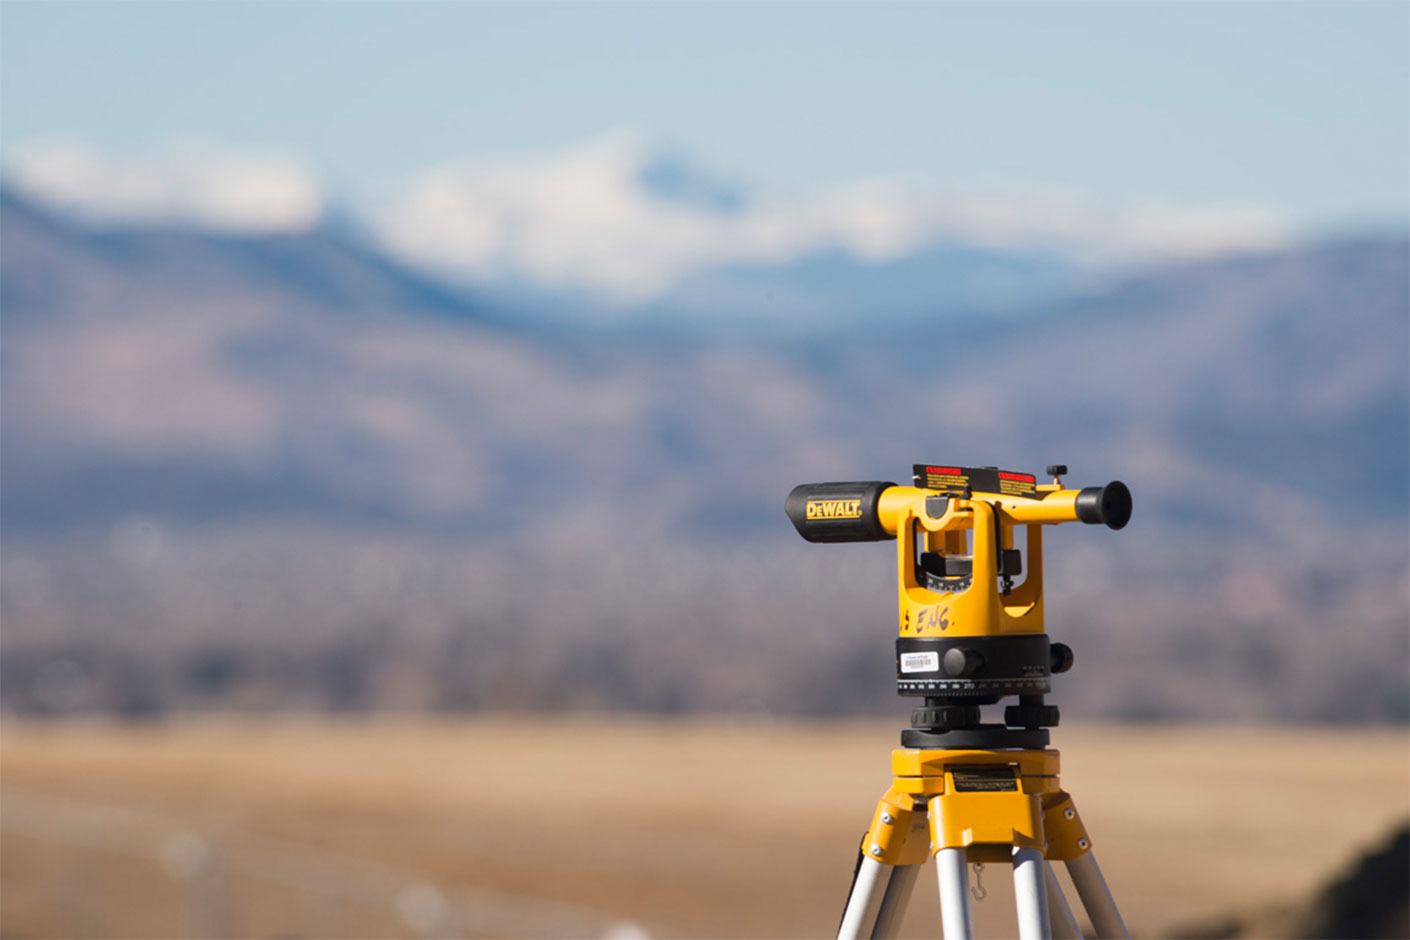
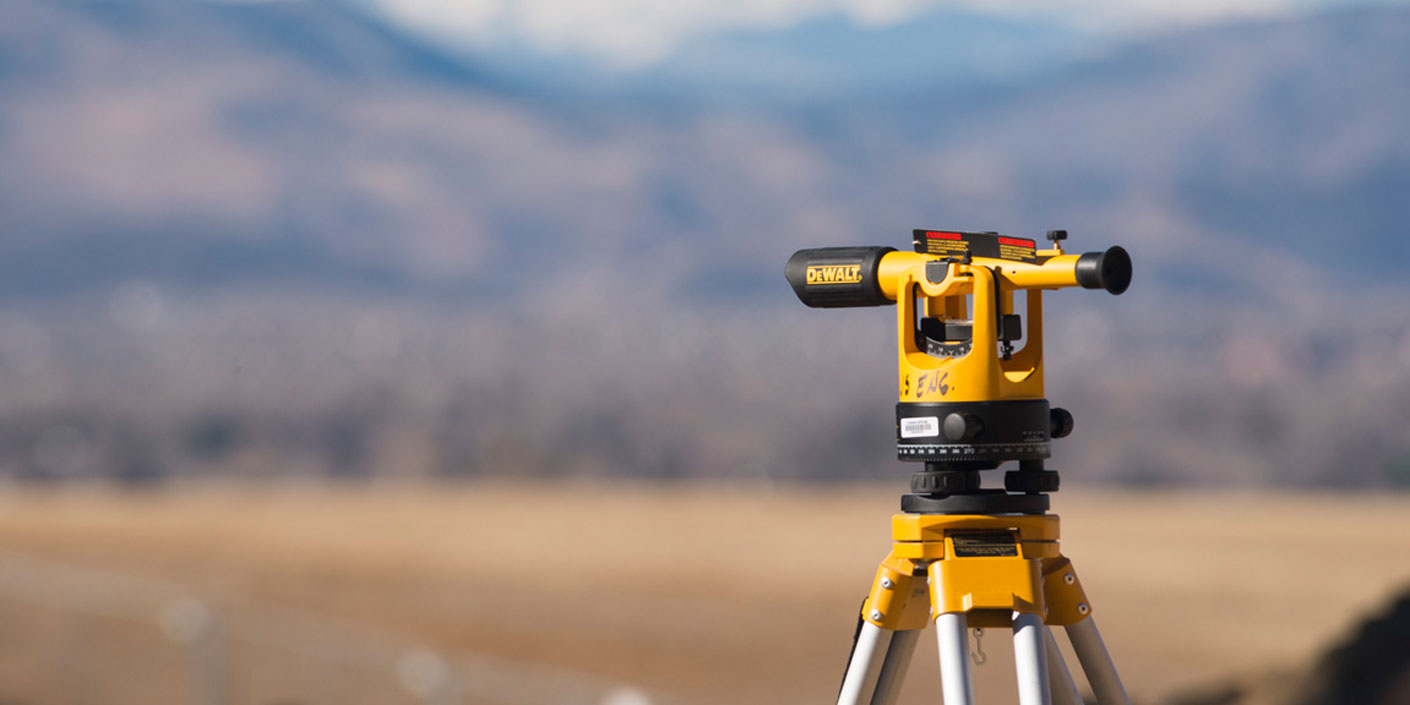
Slideshow updates + adding slideshow images

diff --git a/index.html b/index.html
@@ -27,17 +27,17 @@
         </div>
     </header>
     <section class="slideshow">
-        <div class="slide-container">
-            <img class="slide active" src="img/slide-1.jpg" alt="Measuring Device">
-            <img class="slide" src="img/slide-2.jpg" alt="Measuring Device">
-            <img class="slide" src="img/slide-3.jpg" alt="Measuring Device">
-        </div>
-        <div class="site-intro">
-            <div class="container">
+        <div class="container">
+            <div class="site-intro">
                 <h1>Mērniecība</h1>
                 <p>Zemesgabalu robežu uzmērīšana
                     <br>zemes un būvju reģistrācijai</p>
             </div>
+        </div>
+        <div class="slide-container">
+            <img class="slide active" src="img/slide-1.jpg" alt="Measuring Device">
+            <img class="slide" src="img/slide-2.jpg" alt="Measuring Device">
+            <img class="slide" src="img/slide-3.jpg" alt="Measuring Device">
         </div>
     </section>
     <!-- /.slideshow -->

diff --git a/style.css b/style.css
@@ -79,9 +79,12 @@ body {
     .slideshow {
         margin-top: 95px;
         height: 600px;
+        overflow: hidden;
+        position: relative;
     }
 
     .slideshow .slide {
+        min-width: 1200px;
         width: 100%;
         display: none;
     }
@@ -89,4 +92,32 @@ body {
     .slideshow .slide.active {
         display: block;
     }
-    
+
+    .slideshow .site-intro {
+        width: 1200px;
+        margin: 0 auto;
+        position: absolute;
+        top: 255px;
+    }
+
+    .slideshow .site-intro h1 {
+        background: rgba(0,0,0,0.4);
+        color: #fff;
+        float: left;
+        font-size: 44px;
+        line-height: 60px;
+        font-weight: 400;
+        padding: 8px 20px;
+        margin: 0 0 20px 0;
+    }
+
+    .slideshow .site-intro p {
+        background: rgba(0,0,0,0.4);
+        color: #fff;
+        float: left;
+        clear: left;
+        font-size: 24px;
+        line-height: 36px;
+        padding: 12px 20px;
+        margin: 0;
+    }
